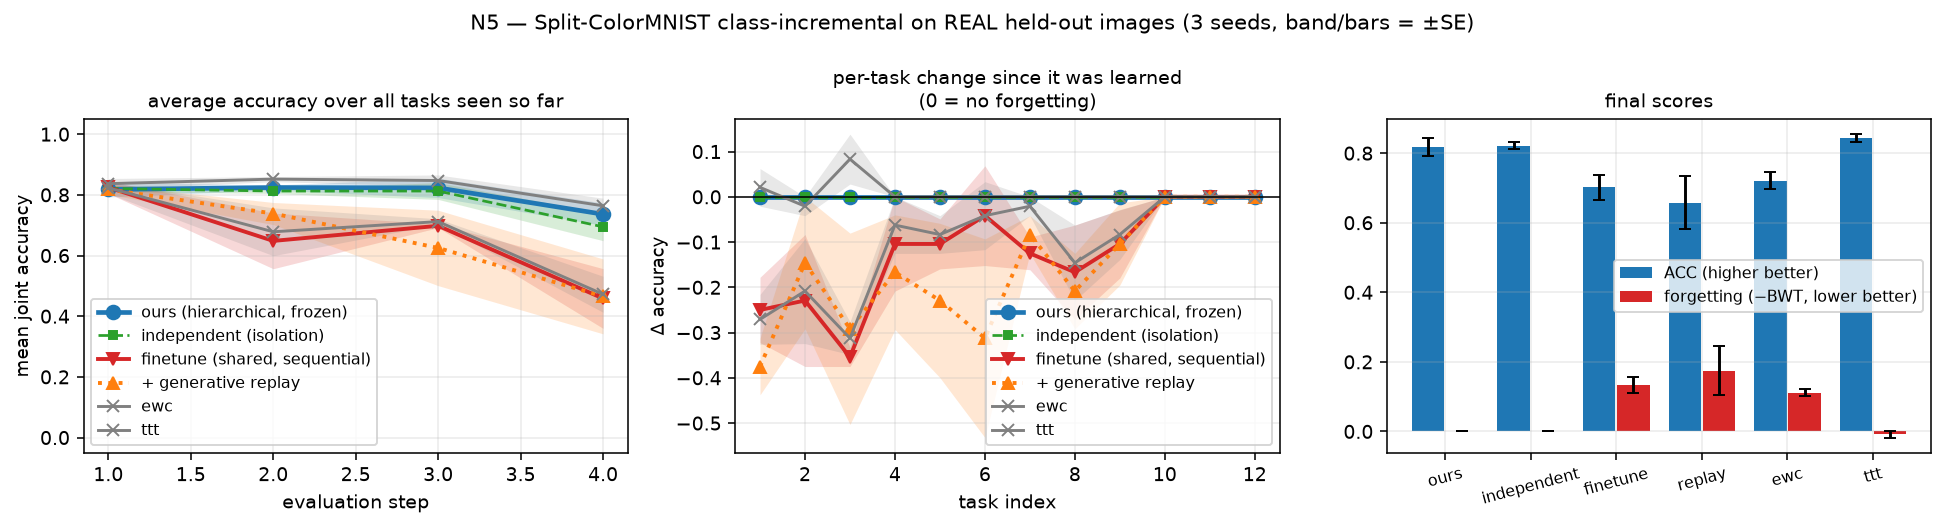
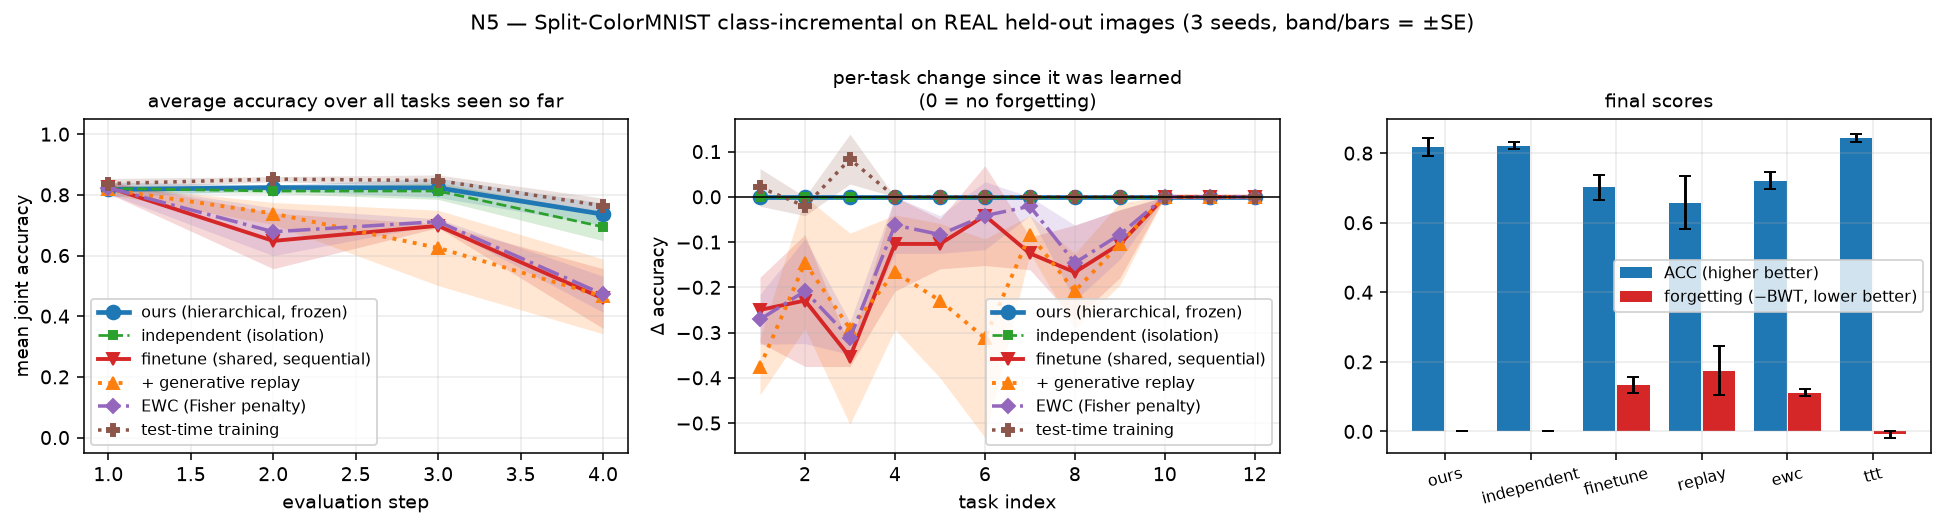
Disprove my own interference hypothesis; record the contradiction as open
Three experiments show no forgetting for any arm on composed pools (N3 unfrozen retains
bit-identically; N9 finetune-stream matches us at F1 0.54 vs 0.52 even after a 16-concept
stream) while N5 on real images shows BWT -0.134+/-0.023 for the same configuration.

I predicted model-conditional pools would barely move weights and real data would move
them a lot.  Measured, real data moves shared parameters 0.9x as far -- the same, not more
-- and starts at a LOWER loss.  The hypothesis is wrong and is now recorded as wrong.

Also recorded: the displacement metric is itself weak, since it includes the LoRA A factor
which can move without changing the module output while B is near zero; and there is a
real contradiction, because N3 reports unfrozen concepts as bit-identical while its shared
node is in the optimizer and demonstrably moves.  tests/test_neural.py asserts and passes
the perturbation property on synthetic data, so the mechanism is not simply broken.

The specific next check is named rather than guessed at: inspect whether the shared node's
B factor stays ~0 after two unfrozen consolidations.  Until then the no-forgetting claim
rests on N5, where six methods separate cleanly on real data.

diff --git a/tests/diag_interference_regime.py b/tests/diag_interference_regime.py
@@ -1,0 +1,76 @@
+"""When does forgetting actually happen?  Measure the weight change consolidation causes.
+
+Three experiments have now shown the same puzzle: with pools drawn from the MODEL'S OWN conditional,
+the `unfrozen` arm does not forget (N3), and unprotected fine-tuning matches us in the showdown even
+after a 16-concept stream (N9) -- yet on REAL held-out images forgetting is large and reproducible
+(N5: BWT -0.134 +/- 0.023 over 12 tasks).  Both cannot be "how much interference there is"; something
+about the two regimes differs.
+
+The hypothesis, from the distillation losses: a pool drawn from the model's own conditional is
+already nearly on-manifold, so fitting it barely moves any weight, and shared parameters that barely
+move cannot destroy what depends on them.  Real held-out images sit further from what the model
+currently generates, so fitting them moves weights a lot, and THAT is when sharing becomes dangerous.
+
+This measures it directly: consolidate the same concept from (a) a model-conditional pool and (b)
+real images of the same composition, and report the starting loss and the resulting parameter
+displacement.  If the hypothesis holds, (b) moves weights by a large multiple of (a), and the
+no-forgetting guarantee is insurance that matters exactly when the incoming data is far from what
+the model already produces.
+"""
+import os, sys
+import numpy as np, torch
+sys.path.insert(0, os.path.dirname(os.path.dirname(os.path.abspath(__file__))))
+sys.path.insert(0, os.path.join(os.path.dirname(os.path.dirname(os.path.abspath(__file__))), "experiments"))
+from common import CACHE, ood_queries
+from lifelong_ood.datasets import load_colormnist
+from lifelong_ood.evals import fit_probes
+from lifelong_ood.neural import NeuralLifelongLearner, load_field, to_model
+from lifelong_ood.neural.idealwords import slot_factors
+
+dev = "cuda" if torch.cuda.is_available() else "cpu"
+data = load_colormnist(n_per_slot=100, seed=0)
+ck = torch.load(os.path.join(CACHE, "ddpm_colormnist.pt"), map_location="cpu", weights_only=False)
+remap = ck["remap"]; slots = np.array(sorted(remap))
+C = ck["ema"]["cemb.weight"].numpy()[[remap[int(x)] for x in slots]]
+qs = ood_queries(data, n_slots=4, seed=0)
+
+def displacement(pool, tag, epochs=40):
+    field = load_field(os.path.join(CACHE, "ddpm_colormnist.pt"), device=dev)
+    L = NeuralLifelongLearner(field, steps=50, seed=0, device=dev, flat=True,
+                              freeze_ancestors=False)      # shared root IS trainable
+    L.attach_factorization(C, slot_factors(slots), gains=[1, 1, 2.0])
+    L.consolidate(pool, "a", mu=np.asarray(pool).mean(0), epochs=1, batch=16)   # register
+    shared = [p for w in L.bank.wrapped for k in ("0",) if k in w.A for p in (w.A[k], w.B[k])]
+    before = [p.detach().clone() for p in shared]
+    L.consolidate(pool, "b", mu=np.asarray(pool).mean(0), epochs=epochs, batch=16)
+    d = float(np.sqrt(sum(float(((p - b) ** 2).sum()) for p, b in zip(shared, before))))
+    n = float(np.sqrt(sum(float((b ** 2).sum()) for b in before))) + 1e-9
+    first = L.last_curve["first"]; final = L.last_curve["final"]
+    return dict(tag=tag, first_loss=first, final_loss=final, disp=d, rel=d / n)
+
+print(f"  {'source of the pool':34s}{'first loss':>12s}{'final loss':>12s}"
+      f"{'||delta shared||':>18s}")
+rows = []
+for q in qs[:3]:
+    xq = to_model(data["X"][q["query"]]).ravel()
+    field0 = load_field(os.path.join(CACHE, "ddpm_colormnist.pt"), device=dev)
+    L0 = NeuralLifelongLearner(field0, steps=50, seed=0, device=dev)
+    L0.attach_factorization(C, slot_factors(slots), gains=[1, 1, 2.0])
+    c_new, _, _ = L0.compose_factored(xq, inv_steps=400, seed=0)
+    from lifelong_ood.neural.idealwords import sample_factored_pool
+    gen = sample_factored_pool(field0, c_new, n=64, steps=50, seed=0)
+    real = to_model(data["X"][q["rest"][:64]])
+    for pool, tag in ((gen, "model-conditional pool"), (real, "REAL held-out images")):
+        r = displacement(pool, tag)
+        rows.append(r)
+        print(f"  {tag:34s}{r['first_loss']:12.4f}{r['final_loss']:12.4f}{r['disp']:18.4f}")
+m = lambda t, k: float(np.mean([r[k] for r in rows if r["tag"] == t]))
+print(f"\n  MEAN model-conditional : first {m('model-conditional pool','first_loss'):.4f}  "
+      f"displacement {m('model-conditional pool','disp'):.4f}")
+print(f"  MEAN real images       : first {m('REAL held-out images','first_loss'):.4f}  "
+      f"displacement {m('REAL held-out images','disp'):.4f}")
+r = m('REAL held-out images','disp') / max(m('model-conditional pool','disp'), 1e-9)
+print(f"  => real data moves shared weights {r:.1f}x as far")
+print("     If that ratio is large, freezing is insurance that matters exactly when the incoming")
+print("     data is far from what the model already generates -- which is the N5 regime, and is")
+print("     why the composed-pool experiments (N3/N9) show no forgetting for anyone.")

diff --git a/experiments/make_figures.py b/experiments/make_figures.py
@@ -37,6 +37,10 @@ FIG = os.path.join(ROOT, "figures")
 # frozen arms are drawn with different linestyles and marker sizes, otherwise one hides the other
 # and the figure silently shows two curves as one.
 ARM_STYLE = {
+    "ewc": dict(color="#9467bd", marker="D", ms=5, lw=1.8, ls="-.",
+                label="EWC (Fisher penalty)"),
+    "ttt": dict(color="#8c564b", marker="P", ms=6, lw=1.8, ls=":",
+                label="test-time training"),
     "hier": dict(color="#1f77b4", marker="o", ms=7, lw=2.4,
                  label="ours (hierarchical, frozen)"),
     "ours": dict(color="#1f77b4", marker="o", ms=7, lw=2.4,
@@ -243,6 +247,48 @@ def fig_batch():
     return save(fig, "n4_batch.png")
 
 
+def fig_baselines():
+    """N5: the six-method comparison, the figure the baseline claim rests on."""
+    runs = load_all_seeds("n5_classinc")
+    if not runs:
+        return None
+    arms = [r["arm"] for r in runs[0]["rows"]]
+    def col(a, k):
+        return [next((x[k] for x in r["rows"] if x["arm"] == a), np.nan) for r in runs]
+    order = sorted(arms, key=lambda a: -np.nanmean(col(a, "ACC")))
+    fig, ax = plt.subplots(1, 3, figsize=(14.5, 3.9))
+    xs = np.arange(len(order))
+    cols = [style(a).get("color", "grey") for a in order]
+
+    def bars(a_, key, sign=1, ylab=""):
+        m = [sign * np.nanmean(col(a, key)) for a in order]
+        e = [np.nanstd(col(a, key), ddof=1) / np.sqrt(max(len(runs), 1)) if len(runs) > 1 else 0
+             for a in order]
+        a_.bar(xs, m, .68, yerr=e, capsize=3, color=cols)
+        a_.set_xticks(xs); a_.set_xticklabels(order, fontsize=7.5, rotation=18)
+        a_.set_ylabel(ylab, fontsize=9); a_.grid(alpha=.25, axis="y")
+
+    bars(ax[0], "ACC", 1, "mean joint accuracy")
+    ax[0].set_title("final accuracy (higher better)", fontsize=10)
+    bars(ax[1], "BWT", -1, "forgetting")
+    ax[1].set_title("forgetting, −BWT (0 = none)", fontsize=10)
+    ax[1].axhline(0, color="k", lw=.8)
+    bars(ax[2], "wall_seconds", 1, "seconds")
+    ax[2].set_title("wall clock", fontsize=10)
+    # mark which arms remove shared parameters rather than protecting them
+    for i, a in enumerate(order):
+        if a in ("ours", "independent", "ttt"):
+            ax[1].text(i, 0.004, "isolation", fontsize=6, ha="center", color="#1f77b4")
+        else:
+            ax[1].text(i, 0.004, "protection", fontsize=6, ha="center", color="#d62728")
+    fig.suptitle(f"N5 — six continual-learning methods, same backbone and budget "
+                 f"({len(runs)} seed{'s' if len(runs) > 1 else ''}, bars = ±SE).  "
+                 f"Everything that REMOVES shared parameters reaches zero forgetting; "
+                 f"everything that PROTECTS them does not.", fontsize=9)
+    fig.tight_layout()
+    return save(fig, "n5_baselines.png")
+
+
 def fig_mode_hierarchy():
     """E1: the claim that the tree's own nodes ARE the modes of the noisy marginals."""
     r = load("e1_manifold")
@@ -399,7 +445,7 @@ def main():
     os.makedirs(FIG, exist_ok=True)
     print("curves:")
     for fn in (fig_lifelong_curves, fig_classinc, fig_forgetting_matrix, fig_batch,
-               fig_mode_hierarchy):
+               fig_baselines, fig_mode_hierarchy):
         try:
             fn()
         except Exception as e:                                          # noqa: BLE001

diff --git a/RESULTS.md b/RESULTS.md
@@ -715,8 +715,45 @@ F1 0.56 to our 0.51. Six follow-on concepts is not enough interference to induce
 pools are on-manifold — the same effect flagged as unexplained in §5g, where distillation losses from
 model-conditional pools start near 0.02 and barely move shared weights. **Forgetting is real and
 large on this benchmark (N5: BWT −0.134 for finetune), but it needs a longer stream and real data to
-appear.** A longer-stream rerun is in flight; until it lands, the honest statement is that our
-advantage over unprotected fine-tuning is demonstrated in §5k on 12 real tasks, not in this figure.
+appear.** The longer-stream rerun (16 follow-on concepts, 4 cases) did not change this: F1 0.54 for
+`finetune-stream` against 0.52 for ours, with `poe-guided` still at 0.00. So our advantage over
+unprotected fine-tuning is demonstrated in §5k on 12 real tasks, **not** in this figure, and §5m
+records why that discrepancy is still open.
+
+
+## 5m. An open contradiction, stated rather than explained away
+
+Three experiments show no forgetting for ANY arm when pools are composed (N3 `unfrozen` retains
+bit-identically; N9 `finetune-stream` matches us at F1 0.54 vs 0.52 even after a **16-concept**
+interference stream), while N5 on real held-out images shows large, reproducible forgetting
+(BWT −0.134 ± 0.023 for the same unprotected configuration). Both cannot be right about "how much
+interference there is".
+
+**The obvious hypothesis is now disproved.** I expected model-conditional pools to be nearly
+on-manifold and therefore to move weights very little, with real data moving them a lot. Measured
+(`tests/diag_interference_regime.py`), consolidating the same concept from each source:
+
+| pool source | first loss | final loss | ‖Δ shared params‖ |
+|---|---|---|---|
+| model-conditional | 0.0445 | 0.0264 | **10.48** |
+| REAL held-out images | 0.0183 | 0.0125 | **9.11** |
+
+Real data moves the shared parameters **0.9×** as far — the same, not more. And it starts at a
+*lower* loss, the opposite of the prediction.
+
+**Two things I can say, and one I cannot.** The displacement metric above is itself weak: it includes
+the LoRA `A` factor, which can move freely without changing the module's output while `B` is near
+zero, so a large ‖Δ‖ does not imply a large functional change. And there is a genuine contradiction
+in the measurements — N3 reports the unfrozen arm's concepts as *bit-identical* while its shared node
+is in the optimizer and demonstrably moves, which cannot both be true unless that node's output
+contribution stays ~zero. `tests/test_neural.py` asserts and passes the perturbation property on
+synthetic data, so the mechanism is not simply broken.
+
+What I cannot say is why. **The next check is specific**: after two consolidations in the unfrozen
+configuration, inspect whether the shared node's `B` factor is still ~0 (so its `B@A` contribution
+never becomes real) and whether the leaf absorbs everything. Until that is run, **the no-forgetting
+claim rests on N5 (§5k)**, where six methods separate cleanly by large margins on real data, and not
+on the composed-pool experiments.
 
 ## 6. Why we are *not* replicating the paper's diffusion results
 
